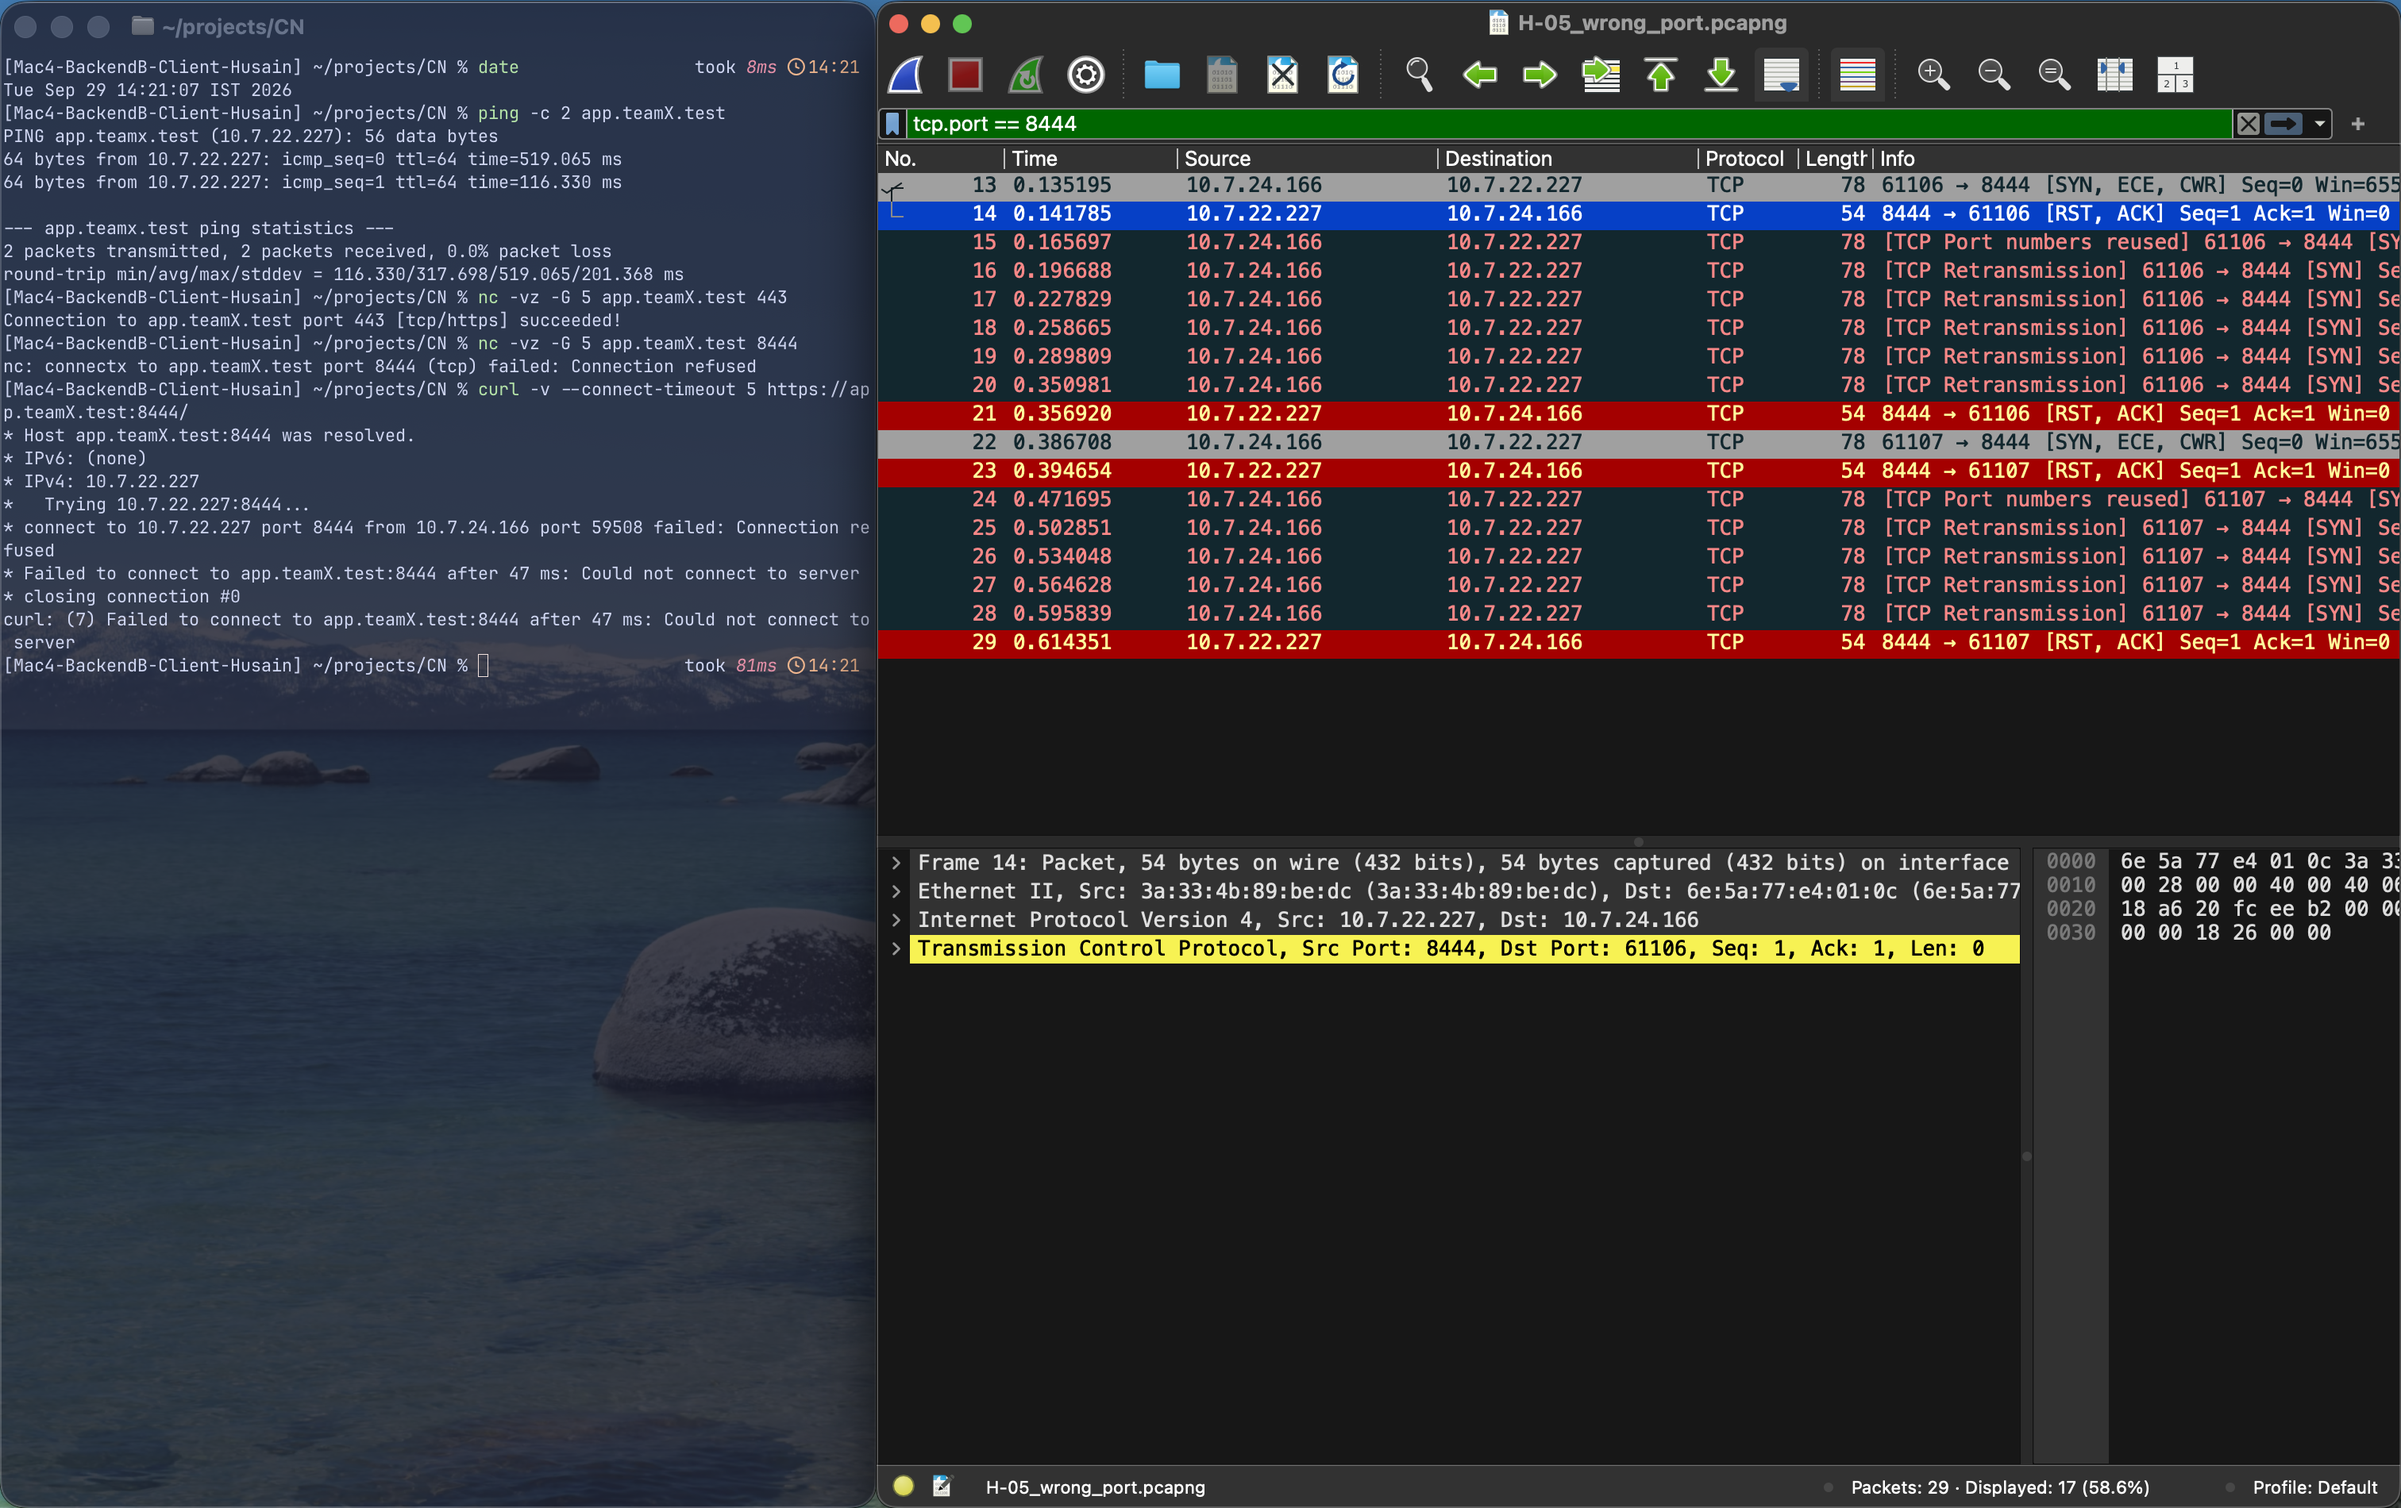
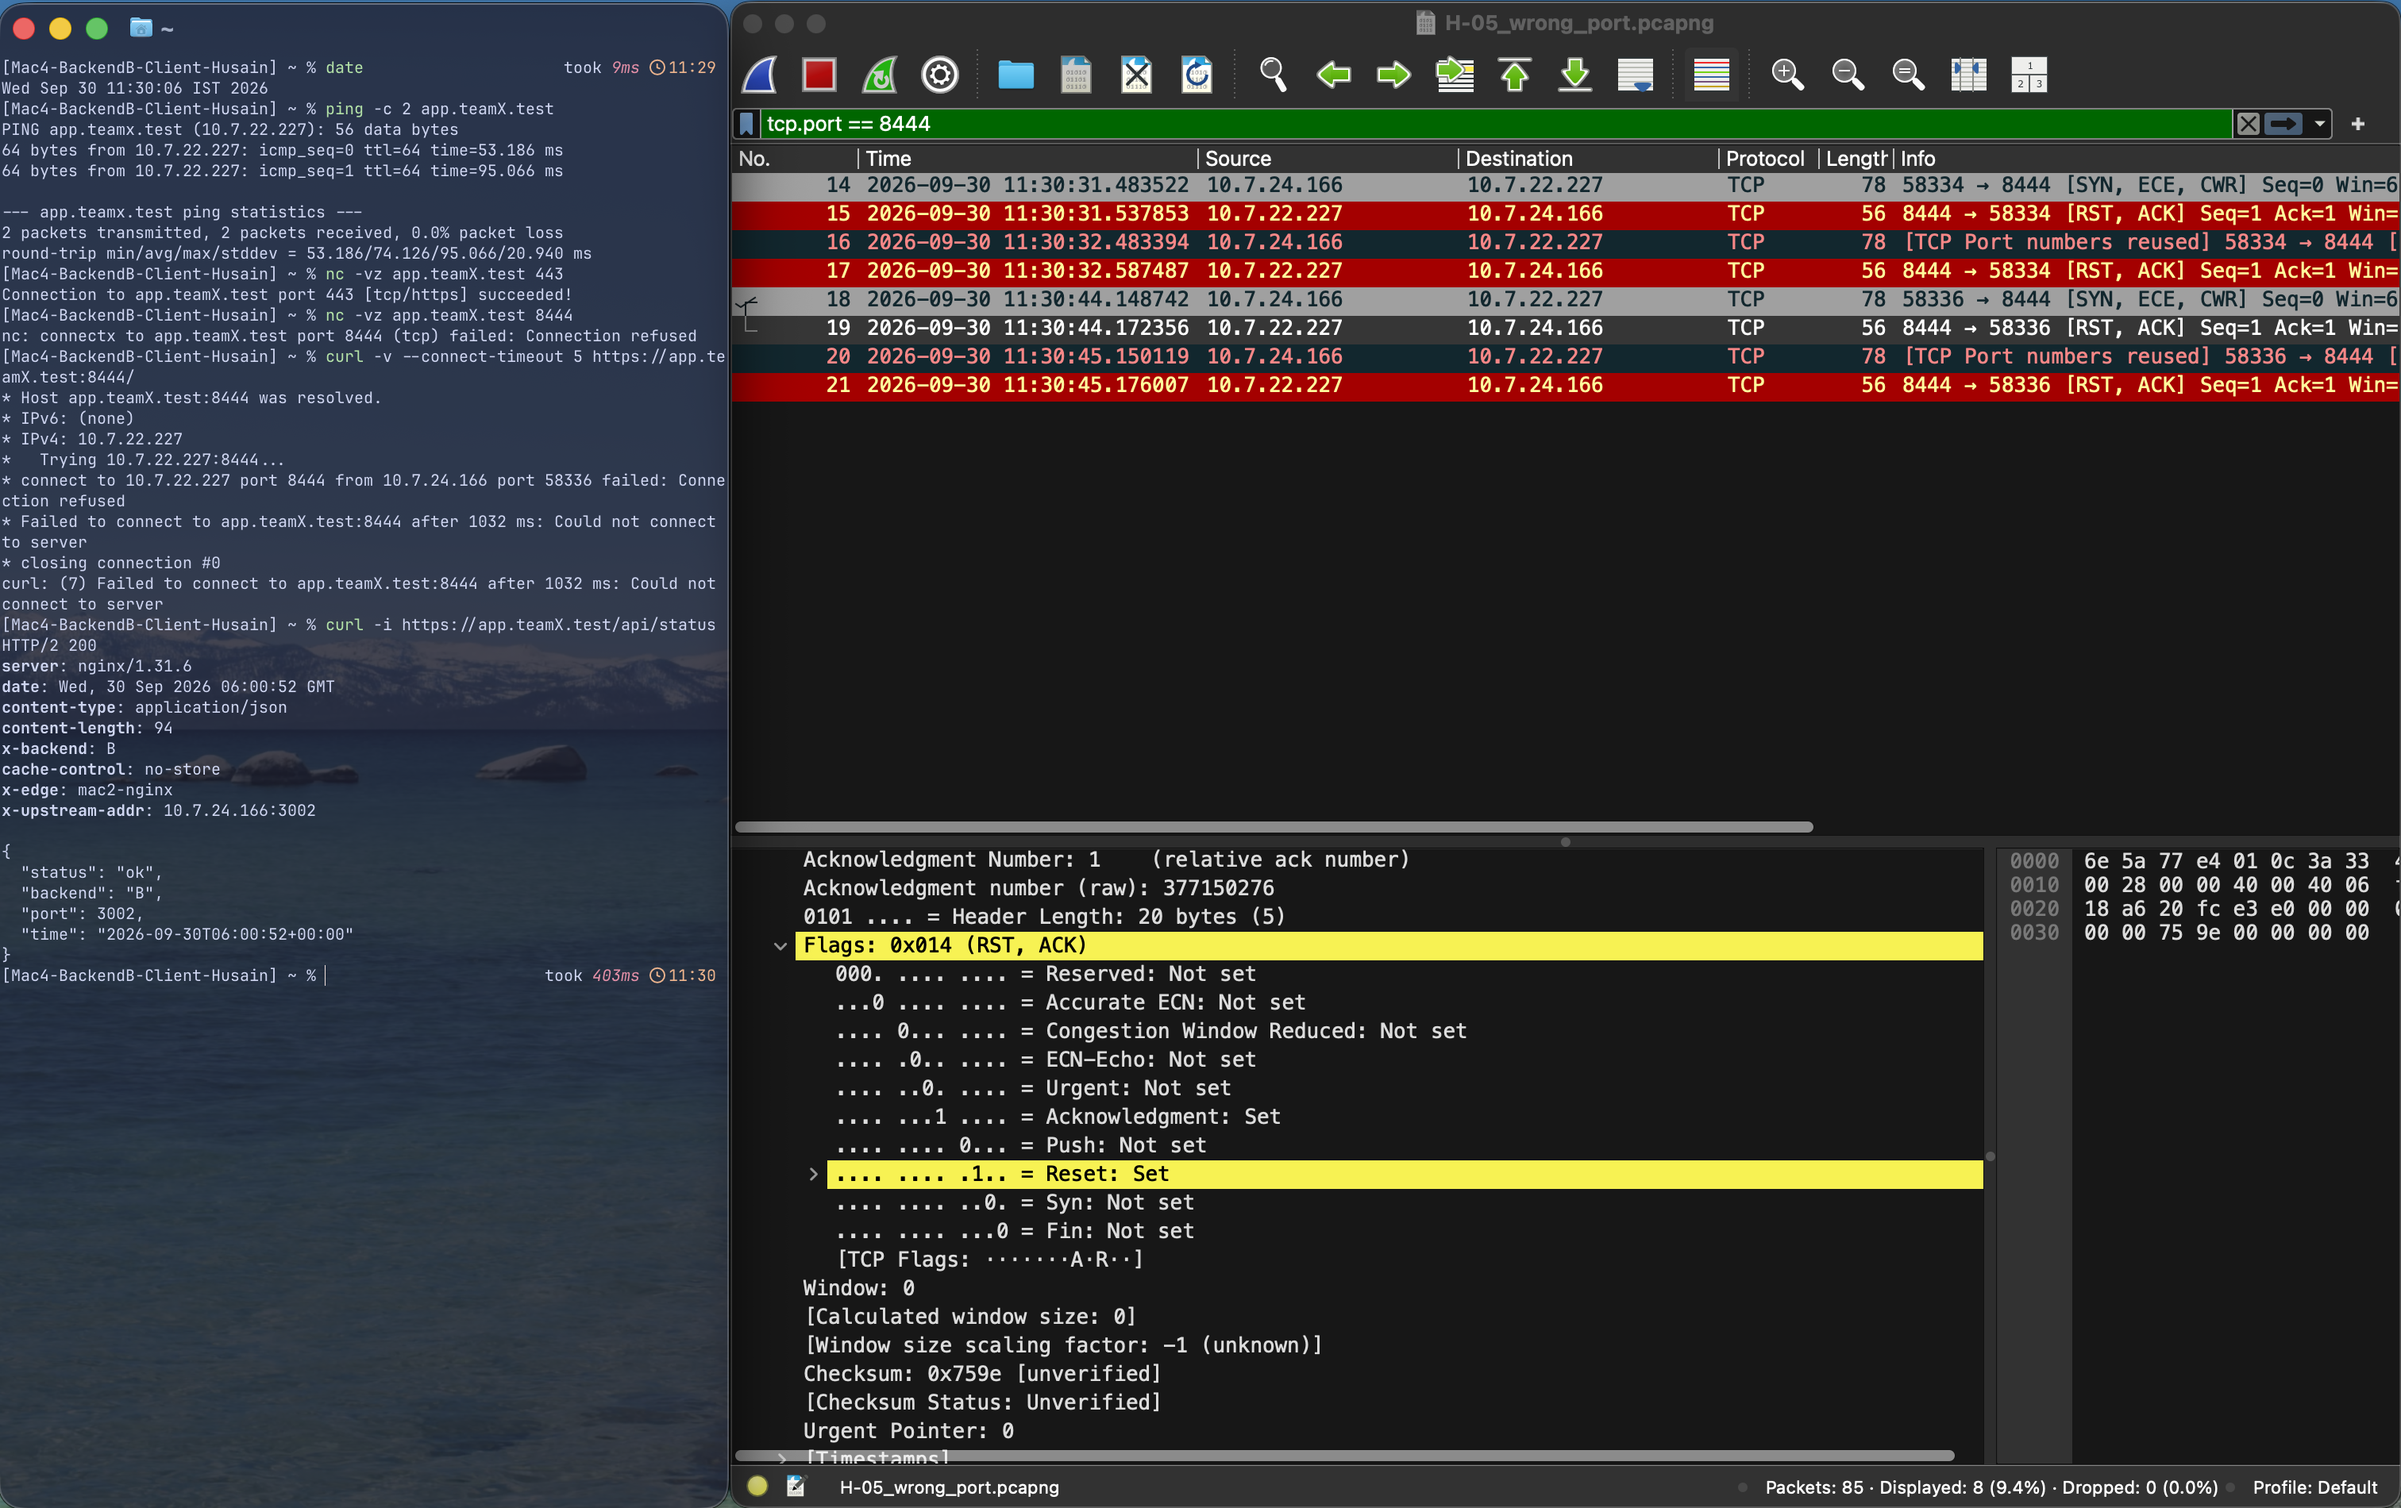
docs(evidence): replace browser and wrong-port retakes
- Replace Backend A and B screenshots with full-window certificate evidence.
- Replace wrong-port screenshot and capture with evidence from the same run.
- Update the Mac 4 checklist with verified retakes and HTTPS restoration.

diff --git a/06_phase1_checklists/husain_mac4.md b/06_phase1_checklists/husain_mac4.md
@@ -66,7 +66,9 @@ Current peer addresses: Mac 1 `10.7.10.22`, Mac 2 `10.7.22.227`, Mac 3 `10.7.18.
 
    If verification fails, stop and fix the certificate or trust configuration; do not bypass validation.
 
-- [x] Request `/api/status` six times through the edge. Evidence: `04_evidence/D_loadbalancing/D-04_mac4_xbackend_alternating.png` shows B/A/B/A/B/A; browser evidence for both backends is in `D-05_mac4_browser_backendA.png` and `D-05_mac4_browser_backendB.png`.
+- [x] Request `/api/status` six times through the edge. Evidence: `04_evidence/D_loadbalancing/D-04_mac4_xbackend_alternating.png` shows B/A/B/A/B/A.
+- [x] Save a full-window browser Backend B screenshot showing the secure connection and valid certificate. Evidence: `04_evidence/D_loadbalancing/D-05_mac4_browser_backendB.png` (30 Sep, backend B, port 3002).
+- [x] Save a full-window browser Backend A screenshot with Mac 3 running Backend A. Evidence: `04_evidence/D_loadbalancing/D-05_mac4_browser_backendA.png` (30 Sep, backend A, port 3001, secure connection and valid certificate).
 - [x] Retake `B-03_mac4_dig_app.png`, `C-04_mac4_backendB_running.png`, and `D-04_mac4_xbackend_alternating.png` with the required Mac 4 role prompt visible. Evidence: their named files under `04_evidence/`.
 - [x] Retake `E-03_mac4_curl_verbose_tls.png` with the required Mac 4 role prompt visible. Evidence: `04_evidence/E_tls/E-03_mac4_curl_verbose_tls.png` (TLS 1.3, certificate subject and issuer, Apple SecTrust verification, HTTP 200).
 
@@ -117,7 +119,7 @@ Open the saved capture. Use these display filters one at a time. Select packets 
 ## 5. Demonstrate the wrong destination port — Task H
 
 - [x] Capture a wrong destination port attempt on en0; normal port 443 works and port 8444 is refused. Evidence: `04_evidence/H_failures/H-05_wrong_port.png` and `H-05_wrong_port.pcapng`.
-- [x] Retake `H-05_wrong_port.png` with the required Mac 4 role prompt visible. Evidence: `04_evidence/H_failures/H-05_wrong_port.png`.
+- [x] Save terminal output and Wireshark packets from the same run. Evidence: `04_evidence/H_failures/H-05_wrong_port.png` and `H-05_wrong_port.pcapng` (30 Sep, curl source port 58336 matches the captured SYN and RST/ACK).
 
       date
       ping -c 2 app.teamX.test
@@ -130,7 +132,7 @@ Open the saved capture. Use these display filters one at a time. Select packets 
 
 - [x] In Wireshark filter `tcp.port == 8444`; show the client's SYN and Mac 2's RST, ACK. Evidence: `H-05_wrong_port.png` and `H-05_wrong_port.pcapng`.
 - [x] Save the terminal and RST/ACK evidence under `04_evidence/H_failures/`.
-- [ ] After the wrong-port attempt, rerun `curl -i https://app.teamX.test/api/status` and record the HTTP 200 result before checking this item.
+- [x] After the wrong-port attempt, recheck HTTPS on port 443. Evidence: `04_evidence/H_failures/H-05_wrong_port.png` shows `curl -i https://app.teamX.test/api/status` returning HTTP/2 200 after the refusal.
 
 ## 6. Before the review
 
